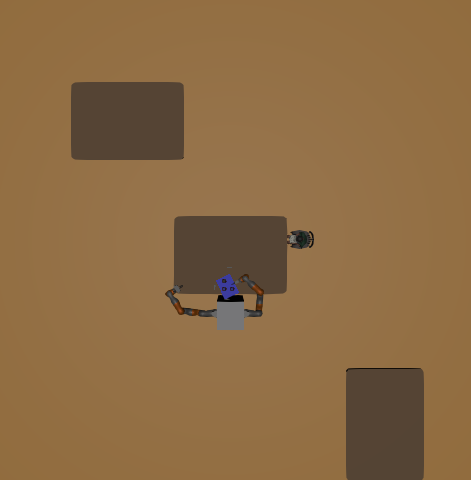
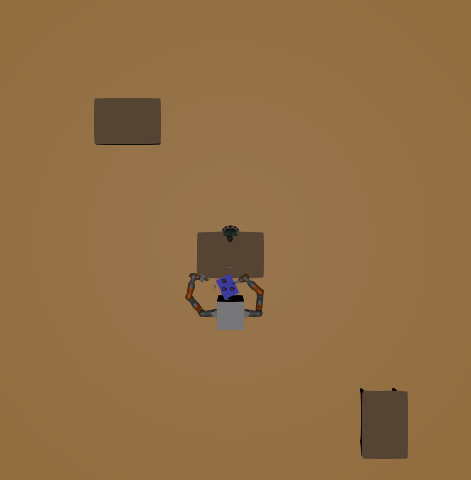
renamed some links + refactor for free body

Changed region(s): [[0.3567, 0.4375, 0.6837, 0.6562], [0.1486, 0.1562, 0.4161, 0.3438], [0.7134, 0.75, 0.9214, 1.0]]

diff --git a/src/cafe.py b/src/cafe.py
@@ -3,16 +3,28 @@ import time
 import mpld3
 import numpy as np
 from pydrake.all import (
+    AddMultibodyPlantSceneGraph,
+    Parser,
     DiagramBuilder,
     Concatenate,
     PointCloud,
     Simulator,
     StartMeshcat,
-    Rgba
+    SpatialVelocity,
+    Rgba,
+    RigidTransform,
+    RotationMatrix
 )
+from pydrake.common.eigen_geometry import Quaternion
+from pydrake.systems.primitives import ConstantVectorSource
+from pydrake.geometry import MeshcatVisualizer, MeshcatVisualizerParams, MakeRenderEngineVtk, RenderEngineVtkParams
+
+from pydrake.multibody.parsing import ProcessModelDirectives, ModelDirectives
 from PIL import Image
 from manipulation import running_as_notebook
 from manipulation.station import LoadScenario, MakeHardwareStation, AddPointClouds
+
+from cameras import add_cameras, get_depth
 
 
 if running_as_notebook:
@@ -27,19 +39,32 @@ with open(scenario_file, "r") as f:
 scenario = LoadScenario(data=scenario_yaml)
 
 builder = DiagramBuilder()
-station = MakeHardwareStation(scenario, meshcat=meshcat)
-# Register the station with the builder before adding point-cloud systems so
-# that AddPointClouds can connect to station's ports.
-builder.AddSystem(station)
-to_point_cloud = AddPointClouds(scenario=scenario, station=station, builder=builder, meshcat=None) # izzy make meshcat=meschat equal to 
-builder.ExportOutput(to_point_cloud["camera0"].get_output_port(), "camera_point_cloud0")
-builder.ExportOutput(to_point_cloud["camera1"].get_output_port(), "camera_point_cloud1")
-builder.ExportOutput(to_point_cloud["camera2"].get_output_port(), "camera_point_cloud2")
-plant = station.GetSubsystemByName("plant")
+plant, scene_graph = AddMultibodyPlantSceneGraph(builder, time_step=0.001)
+parser = Parser(plant)
+parser.package_map().Add("manipulation", "/usr/local/lib/python3.12/dist-packages/manipulation/models")
+
+model_directives = ModelDirectives(directives=scenario.directives)
+models = ProcessModelDirectives(model_directives, parser)
+
+robot_base_instance = plant.GetModelInstanceByName("robot_base")
+iiwa_arm_instance = plant.GetModelInstanceByName("iiwa_arm")
+iiwa_plate_instance = plant.GetModelInstanceByName("iiwa_plate")
+wsg_arm_instance = plant.GetModelInstanceByName("wsg_arm")
+wsg_plate_instance = plant.GetModelInstanceByName("wsg_plate")
+
+plant.Finalize()
+
+renderer_name = "renderer"
+scene_graph.AddRenderer(renderer_name, MakeRenderEngineVtk(RenderEngineVtkParams()))
 
 
+visualizer = MeshcatVisualizer.AddToBuilder(
+    builder, scene_graph, meshcat,
+    MeshcatVisualizerParams()
+)
 
-from pydrake.systems.primitives import ConstantVectorSource
+add_cameras(builder, plant, scene_graph, scenario)
+
 initial_positions_arm = [
     -1.57,  # joint 1
     0.9,    # joint 2
@@ -59,102 +84,67 @@ initial_positions_plate = [
     0.3       # joint 7
 ]
 
+initial_base_pose = np.array([
+    1.0, 0.0, 0.0, 0.0,  # identity quaternion
+    1.4, 0.0, 0.4         # position from scenario
+])
+
+robot_body_initial = RigidTransform(
+    RotationMatrix(Quaternion(wxyz=initial_base_pose[:4])),
+    initial_base_pose[4:]
+)
+
 # currently making both arms be held to the same initial position
 position_arm_source = builder.AddSystem(ConstantVectorSource(initial_positions_arm))
 builder.Connect(
     position_arm_source.get_output_port(),
-    station.GetInputPort("iiwa_arm.position")
+    plant.get_actuation_input_port(iiwa_arm_instance)
+
 )
 position_plate_source = builder.AddSystem(ConstantVectorSource(initial_positions_plate))
 builder.Connect(
     position_plate_source.get_output_port(),
-    station.GetInputPort("iiwa_plate.position")
+    plant.get_actuation_input_port(iiwa_plate_instance)
 )
 
-wsg_arm_source = builder.AddSystem(ConstantVectorSource([0.1]))
+wsg_arm_source = builder.AddSystem(ConstantVectorSource([0.1, 0.1])) # open both fingers slightly
 builder.Connect(
     wsg_arm_source.get_output_port(),
-    station.GetInputPort("wsg_arm.position")
+    plant.get_actuation_input_port(wsg_arm_instance)
 )
-wsg_plate_source = builder.AddSystem(ConstantVectorSource([0]))
+
+wsg_plate_source = builder.AddSystem(ConstantVectorSource([0.0, 0.0])) # the grippers are gripping
 builder.Connect(
     wsg_plate_source.get_output_port(),
-    station.GetInputPort("wsg_plate.position")
+    plant.get_actuation_input_port(wsg_plate_instance)
 )
 
 diagram = builder.Build()
 simulator = Simulator(diagram)
 context = simulator.get_mutable_context()
-station_context = station.GetMyContextFromRoot(context)
+plant_context = plant.GetMyMutableContextFromRoot(context)
 
-
-# Save and crop the RGB image
-topview_camera_rgb = station.GetOutputPort("topview_camera.rgb_image").Eval(station_context)
-image_array = np.copy(topview_camera_rgb.data).reshape(
-    (topview_camera_rgb.height(), topview_camera_rgb.width(), -1)
+robot_base_body = plant.GetBodyByName("robot_base_link", robot_base_instance)
+X_initial = RigidTransform(
+    RotationMatrix(Quaternion(wxyz=initial_base_pose[:4])),
+    initial_base_pose[4:]
 )
+plant.SetFreeBodyPose(plant_context, robot_base_body, robot_body_initial)
+zero_vel = SpatialVelocity(w=[0., 0., 0.], v=[0., 0., 0.])
+plant.SetFreeBodySpatialVelocity(robot_base_body, zero_vel, plant_context)
 
-# Define crop region (x_start, y_start, x_end, y_end)
-# Example: crop center 300x300 region
-crop_x_start = 89  # left edge
-crop_y_start = 0   # top edge
-crop_x_end = 560    # right edge
-crop_y_end = 480    # bottom edge
+plant.SetPositions(plant_context, iiwa_arm_instance, initial_positions_arm)
+plant.SetPositions(plant_context, iiwa_plate_instance, initial_positions_plate)
 
-# Crop the RGB image
-image_cropped = image_array[crop_y_start:crop_y_end, crop_x_start:crop_x_end]
+diagram.ForcedPublish(context)
 
-# Save full image
-image_full = Image.fromarray(image_array.astype(np.uint8))
-output_path_full = Path("/workspaces/robman-final-proj/topview_camera_image_full.png")
-image_full.save(output_path_full)
-print(f"Full image saved to {output_path_full} with shape {image_array.shape}")
-
-# Save cropped image
-image = Image.fromarray(image_cropped.astype(np.uint8))
-output_path = Path("/workspaces/robman-final-proj/topview_camera_image.png")
-image.save(output_path)
-print(f"Cropped image saved to {output_path} with shape {image_cropped.shape}")
-
-# Depth image processing with crop
-topview_camera_depth = station.GetOutputPort("topview_camera.depth_image").Eval(station_context)
-depth_array = np.copy(topview_camera_depth.data).reshape(
-    (topview_camera_depth.height(), topview_camera_depth.width())
-)
-
-# Crop the depth array
-depth_array_cropped = depth_array[crop_y_start:crop_y_end, crop_x_start:crop_x_end]
-
-# Debug: Print depth statistics for cropped region
-print(f"Cropped depth array shape: {depth_array_cropped.shape}")
-print(f"Depth min: {np.min(depth_array_cropped)}")
-print(f"Depth max: {np.max(depth_array_cropped)}")
-print(f"Number of inf values: {np.sum(np.isinf(depth_array_cropped))}")
-
-# Normalize depth for visualization
-depth_array_vis = np.copy(depth_array_cropped)
-max_valid_depth = 15.0
-depth_array_vis[np.isinf(depth_array_vis)] = max_valid_depth
-
-depth_min = np.min(depth_array_vis)
-depth_max = np.max(depth_array_vis)
-print(f"Valid depth range: {depth_min} to {depth_max}")
-
-if depth_max > depth_min:
-    depth_normalized = 255 - ((depth_array_vis - depth_min) / (depth_max - depth_min) * 255)
-else:
-    depth_normalized = np.zeros_like(depth_array_vis)
-
-depth_image = Image.fromarray(depth_normalized.astype(np.uint8))
-depth_output_path = Path("/workspaces/robman-final-proj/topview_camera_depth.png")
-depth_image.save(depth_output_path)
-print(f"Cropped depth image saved to {depth_output_path}")
+get_depth(diagram, context)
 
 # generating the pointcloud
-camera0_letter_point_cloud = diagram.GetOutputPort("camera_point_cloud0").Eval(context)
-camera1_letter_point_cloud = diagram.GetOutputPort("camera_point_cloud1").Eval(context)
-camera2_letter_point_cloud = diagram.GetOutputPort("camera_point_cloud2").Eval(context)
-concatenated_pc = Concatenate([camera0_letter_point_cloud, camera1_letter_point_cloud, camera2_letter_point_cloud])
+camera0_point_cloud = diagram.GetOutputPort("camera_point_cloud0").Eval(context)
+camera1_point_cloud = diagram.GetOutputPort("camera_point_cloud1").Eval(context)
+camera2_point_cloud = diagram.GetOutputPort("camera_point_cloud2").Eval(context)
+concatenated_pc = Concatenate([camera0_point_cloud, camera1_point_cloud, camera2_point_cloud])
 
 voxel_size = 0.005  
 downsampled_pc = concatenated_pc.VoxelizedDownSample(voxel_size)

diff --git a/src/cameras.py b/src/cameras.py
@@ -1,0 +1,150 @@
+from pydrake.systems.sensors import RgbdSensor, CameraInfo, PixelType
+from pydrake.geometry import DepthRenderCamera, RenderCameraCore, ColorRenderCamera, ClippingRange, DepthRange
+from pydrake.perception import DepthImageToPointCloud
+from pydrake.math import RigidTransform
+import numpy as np
+from pathlib import Path
+from PIL import Image
+
+def add_cameras(builder, plant, scene_graph, scenario):
+    """
+    Adds RGB-D cameras to the simulation based on the provided camera configurations.
+
+    Args:
+        builder: The DiagramBuilder to which the cameras will be added.
+        plant: The MultibodyPlant containing the robot and environment.
+        scene_graph: The SceneGraph for geometry queries.
+        camera_configs: A list of tuples (camera_name, camera_model) specifying
+                        the cameras to be added.
+    Returns:
+        sensors: A dictionary mapping camera names to their RgbdSensor systems.
+        depth_to_cloud_systems: A dictionary mapping camera names to their
+                                DepthImageToPointCloud systems (if applicable).
+    """
+    rgbd_sensors = {}
+    point_cloud_systems = {}
+
+    for cam_name, cam_config in scenario.cameras.items():
+        try:
+            # Get the camera body from the plant
+            cam_instance = plant.GetModelInstanceByName(cam_config.name)
+            cam_body = plant.GetBodyByName("base", cam_instance)
+            frame_id = plant.GetBodyFrameIdOrThrow(cam_body.index())
+            
+            # Create camera info from scenario configuration
+            camera_info = CameraInfo(
+                width=cam_config.width,
+                height=cam_config.height,
+                fov_y=cam_config.focal.y * np.pi / 180
+            )
+            
+            # Create render cameras
+            core = RenderCameraCore(
+                "renderer", camera_info,
+                ClippingRange(cam_config.z_near, cam_config.z_far),
+                RigidTransform()
+            )
+            color_camera = ColorRenderCamera(core, show_window=False)
+            depth_camera = DepthRenderCamera(core, DepthRange(cam_config.z_near, cam_config.z_far))
+            
+            # Create RGBD sensor
+            sensor = builder.AddSystem(
+                RgbdSensor(
+                    parent_id=frame_id,
+                    X_PB=RigidTransform(),
+                    color_camera=color_camera,
+                    depth_camera=depth_camera
+                )
+            )
+            
+            # Connect to scene graph
+            builder.Connect(
+                scene_graph.get_query_output_port(),
+                sensor.query_object_input_port()
+            )
+            
+            # Export RGB and depth outputs
+            builder.ExportOutput(sensor.color_image_output_port(), f"{cam_name}.rgb_image")
+            builder.ExportOutput(sensor.depth_image_32F_output_port(), f"{cam_name}.depth_image")
+            
+            rgbd_sensors[cam_name] = sensor
+            
+            # Create point cloud converter for camera0, camera1, camera2 (not topview)
+            if cam_name in ["camera0", "camera1", "camera2"]:
+                depth_to_cloud = builder.AddSystem(
+                    DepthImageToPointCloud(
+                        camera_info=camera_info,
+                        pixel_type=PixelType.kDepth32F
+                    )
+                )
+                
+                # Connect depth image to point cloud converter
+                builder.Connect(
+                    sensor.depth_image_32F_output_port(),
+                    depth_to_cloud.depth_image_input_port()
+                )
+                
+                # Connect camera pose
+                builder.Connect(
+                    sensor.body_pose_in_world_output_port(),
+                    depth_to_cloud.camera_pose_input_port()
+                )
+                
+                # Export point cloud output
+                cam_num = cam_name[-1]  # Get the number from "camera0", "camera1", etc.
+                builder.ExportOutput(
+                    depth_to_cloud.point_cloud_output_port(),
+                    f"camera_point_cloud{cam_num}"
+                )
+                
+                point_cloud_systems[cam_name] = depth_to_cloud
+                # print(f"  {cam_name}: RGBD sensor + point cloud converter")
+            # else:
+                # print(f"  {cam_name}: RGBD sensor only")
+            
+        except Exception as e:
+            print(f"  Warning: Could not add camera {cam_name}: {e}")
+
+def get_depth(diagram, context):
+    # Save and crop the RGB image
+    topview_camera_rgb = diagram.GetOutputPort("topview_camera.rgb_image").Eval(context)
+    image_array = np.copy(topview_camera_rgb.data).reshape(
+        (topview_camera_rgb.height(), topview_camera_rgb.width(), -1)
+    )
+
+    # Define crop region
+    crop_x_start = 89  # left edge
+    crop_y_start = 0   # top edge
+    crop_x_end = 560    # right edge
+    crop_y_end = 480    # bottom edge
+    image_cropped = image_array[crop_y_start:crop_y_end, crop_x_start:crop_x_end]
+
+    # Save cropped image
+    image = Image.fromarray(image_cropped.astype(np.uint8))
+    output_path = Path("/workspaces/robman-final-proj/topview_camera_image.png")
+    image.save(output_path)
+    print(f"Cropped image saved to {output_path} with shape {image_cropped.shape}")
+
+    # Depth image processing with crop
+    topview_camera_depth = diagram.GetOutputPort("topview_camera.depth_image").Eval(context)
+    depth_array = np.copy(topview_camera_depth.data).reshape(
+        (topview_camera_depth.height(), topview_camera_depth.width())
+    )
+    depth_array_cropped = depth_array[crop_y_start:crop_y_end, crop_x_start:crop_x_end]
+
+    # Normalize depth for visualization
+    depth_array_vis = np.copy(depth_array_cropped)
+    max_valid_depth = 15.0
+    depth_array_vis[np.isinf(depth_array_vis)] = max_valid_depth
+
+    depth_min = np.min(depth_array_vis)
+    depth_max = np.max(depth_array_vis)
+    if depth_max > depth_min:
+        depth_normalized = 255 - ((depth_array_vis - depth_min) / (depth_max - depth_min) * 255)
+    else:
+        depth_normalized = np.zeros_like(depth_array_vis)
+
+    depth_image = Image.fromarray(depth_normalized.astype(np.uint8))
+    depth_output_path = Path("/workspaces/robman-final-proj/topview_camera_depth.png")
+    depth_image.save(depth_output_path)
+    print(f"Cropped depth image saved to {depth_output_path}")

diff --git a/src/station.py b/src/station.py
@@ -1,0 +1,18 @@
+from pydrake.all import Diagram
+class SimpleStation(Diagram):
+    """
+    A minimal station-like wrapper that provides the interface AddPointClouds expects.
+    This is needed because we can't use MakeHardwareStation with a free body.
+    """
+    def __init__(self, plant, scene_graph, builder):
+        Diagram.__init__(self)
+        self._plant = plant
+        self._scene_graph = scene_graph
+        
+    def GetSubsystemByName(self, name):
+        if name == "plant":
+            return self._plant
+        elif name == "scene_graph":
+            return self._scene_graph
+        else:
+            raise ValueError(f"Unknown subsystem: {name}")
